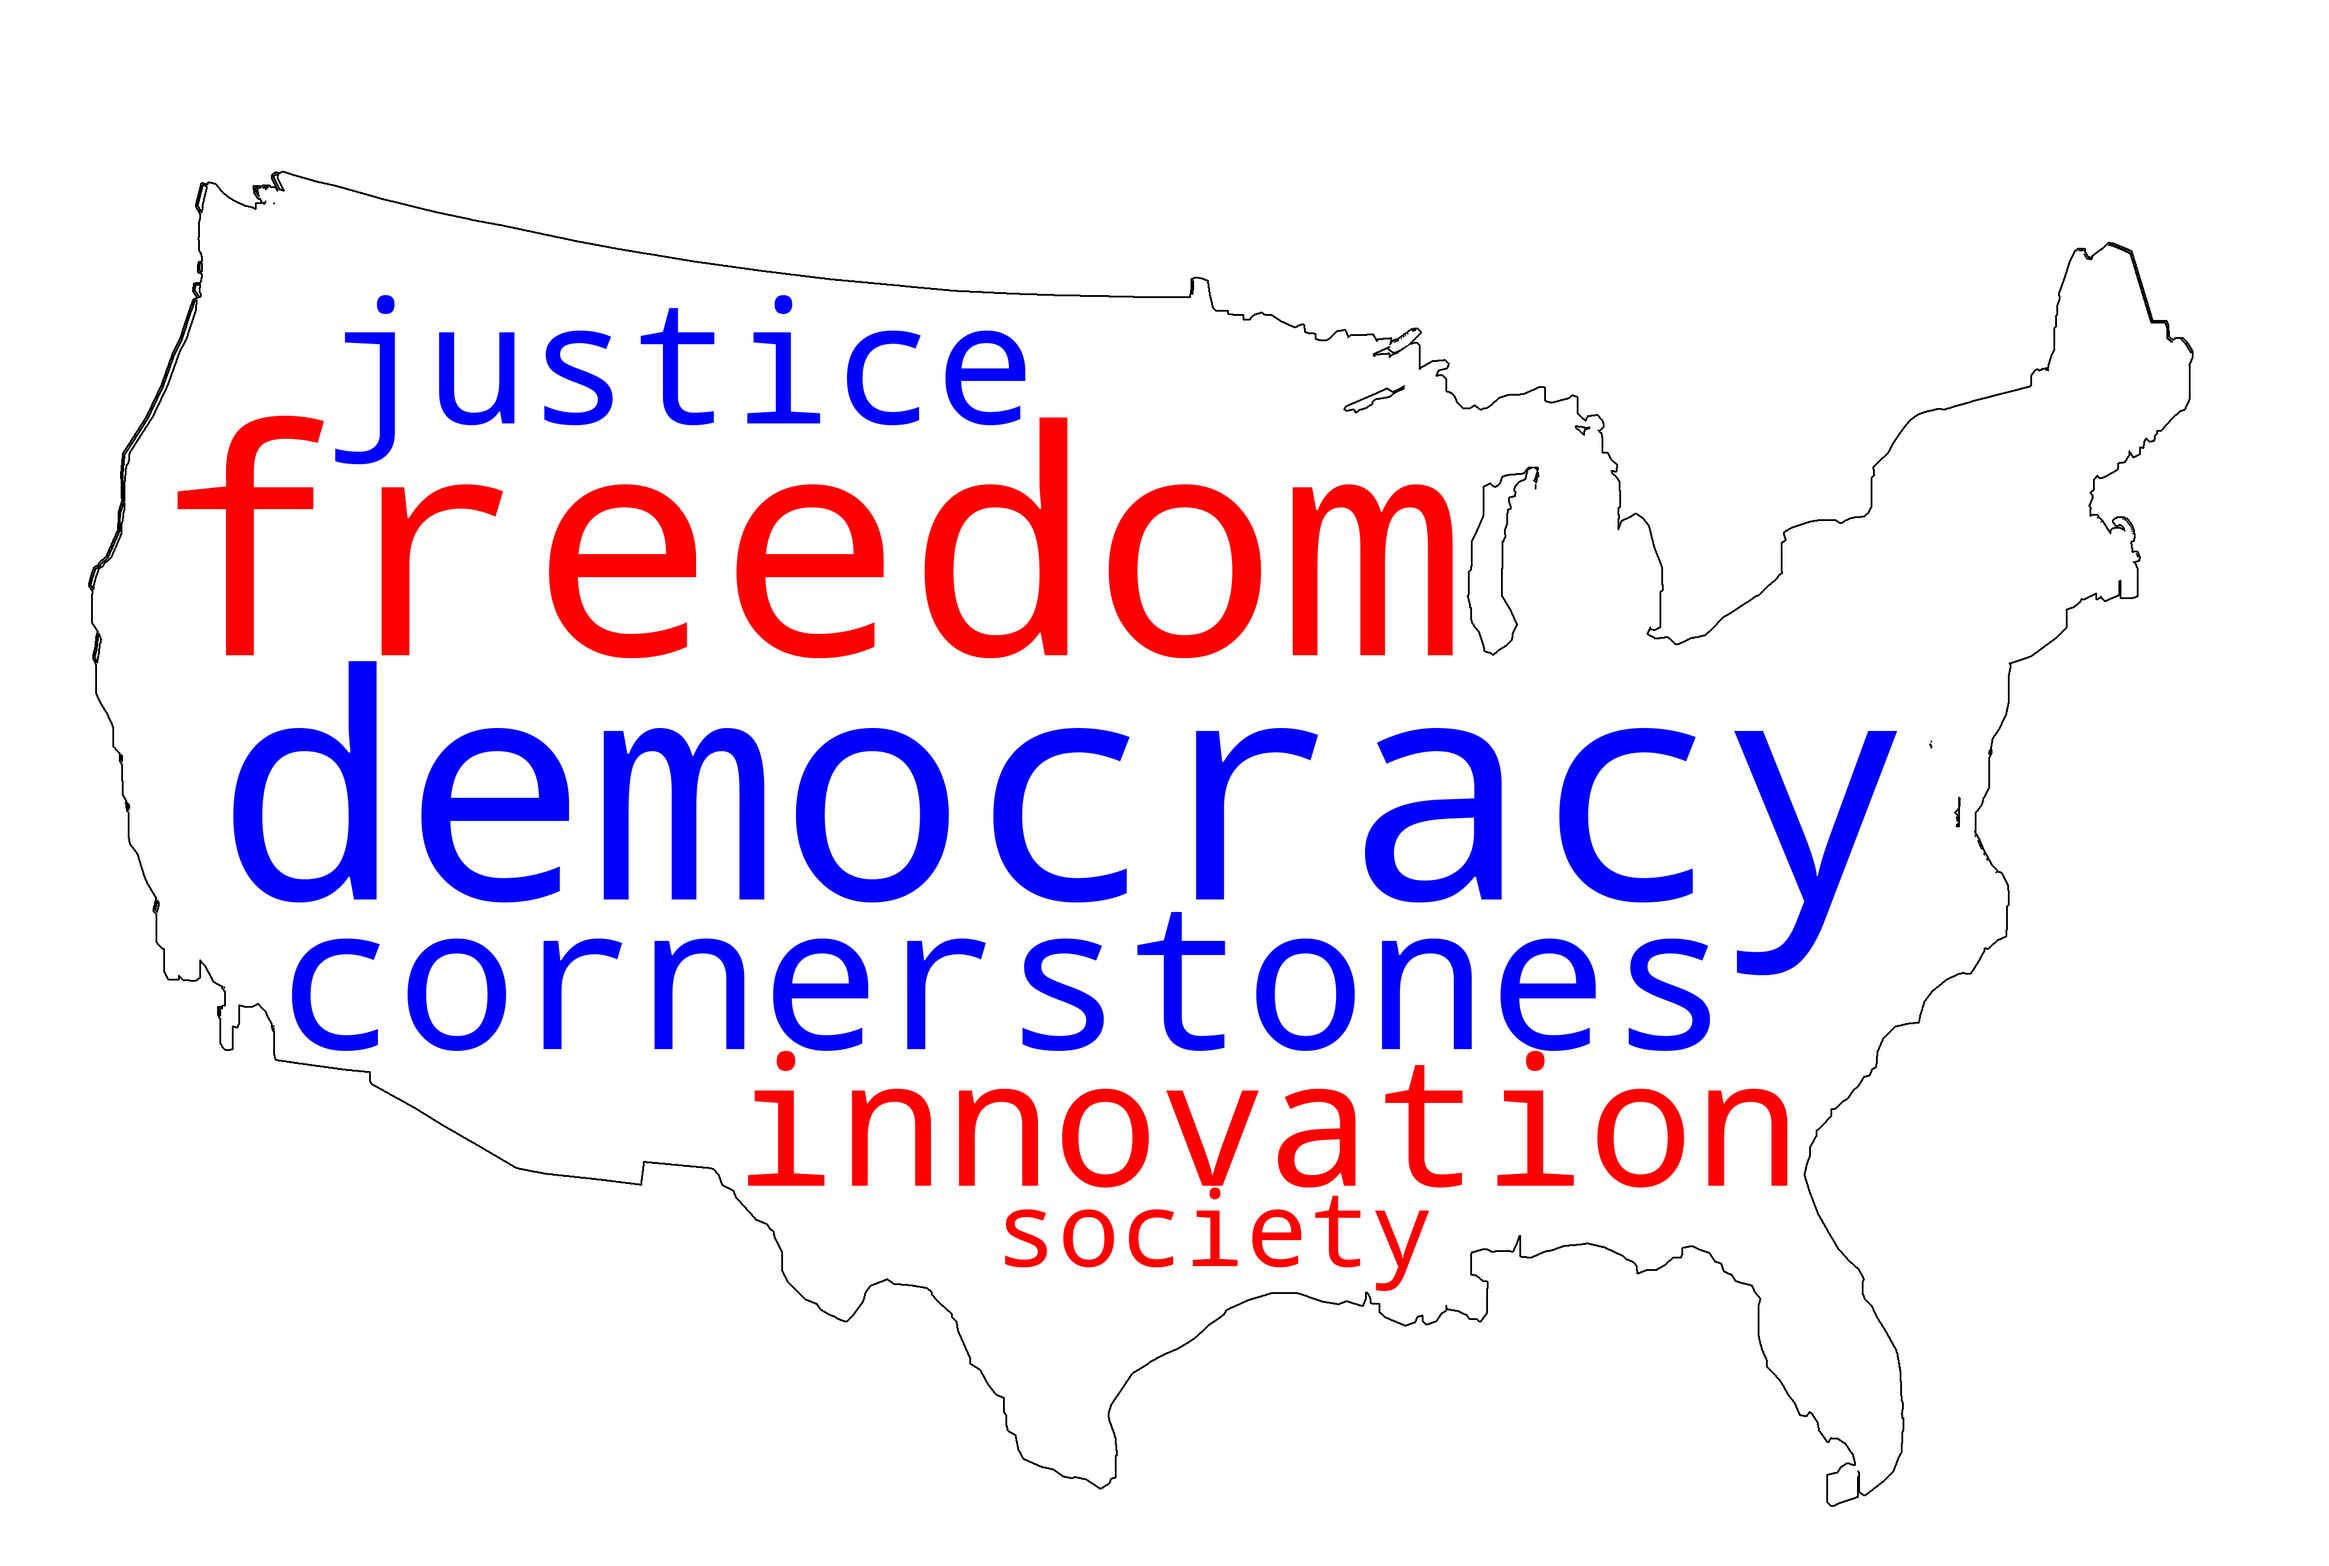
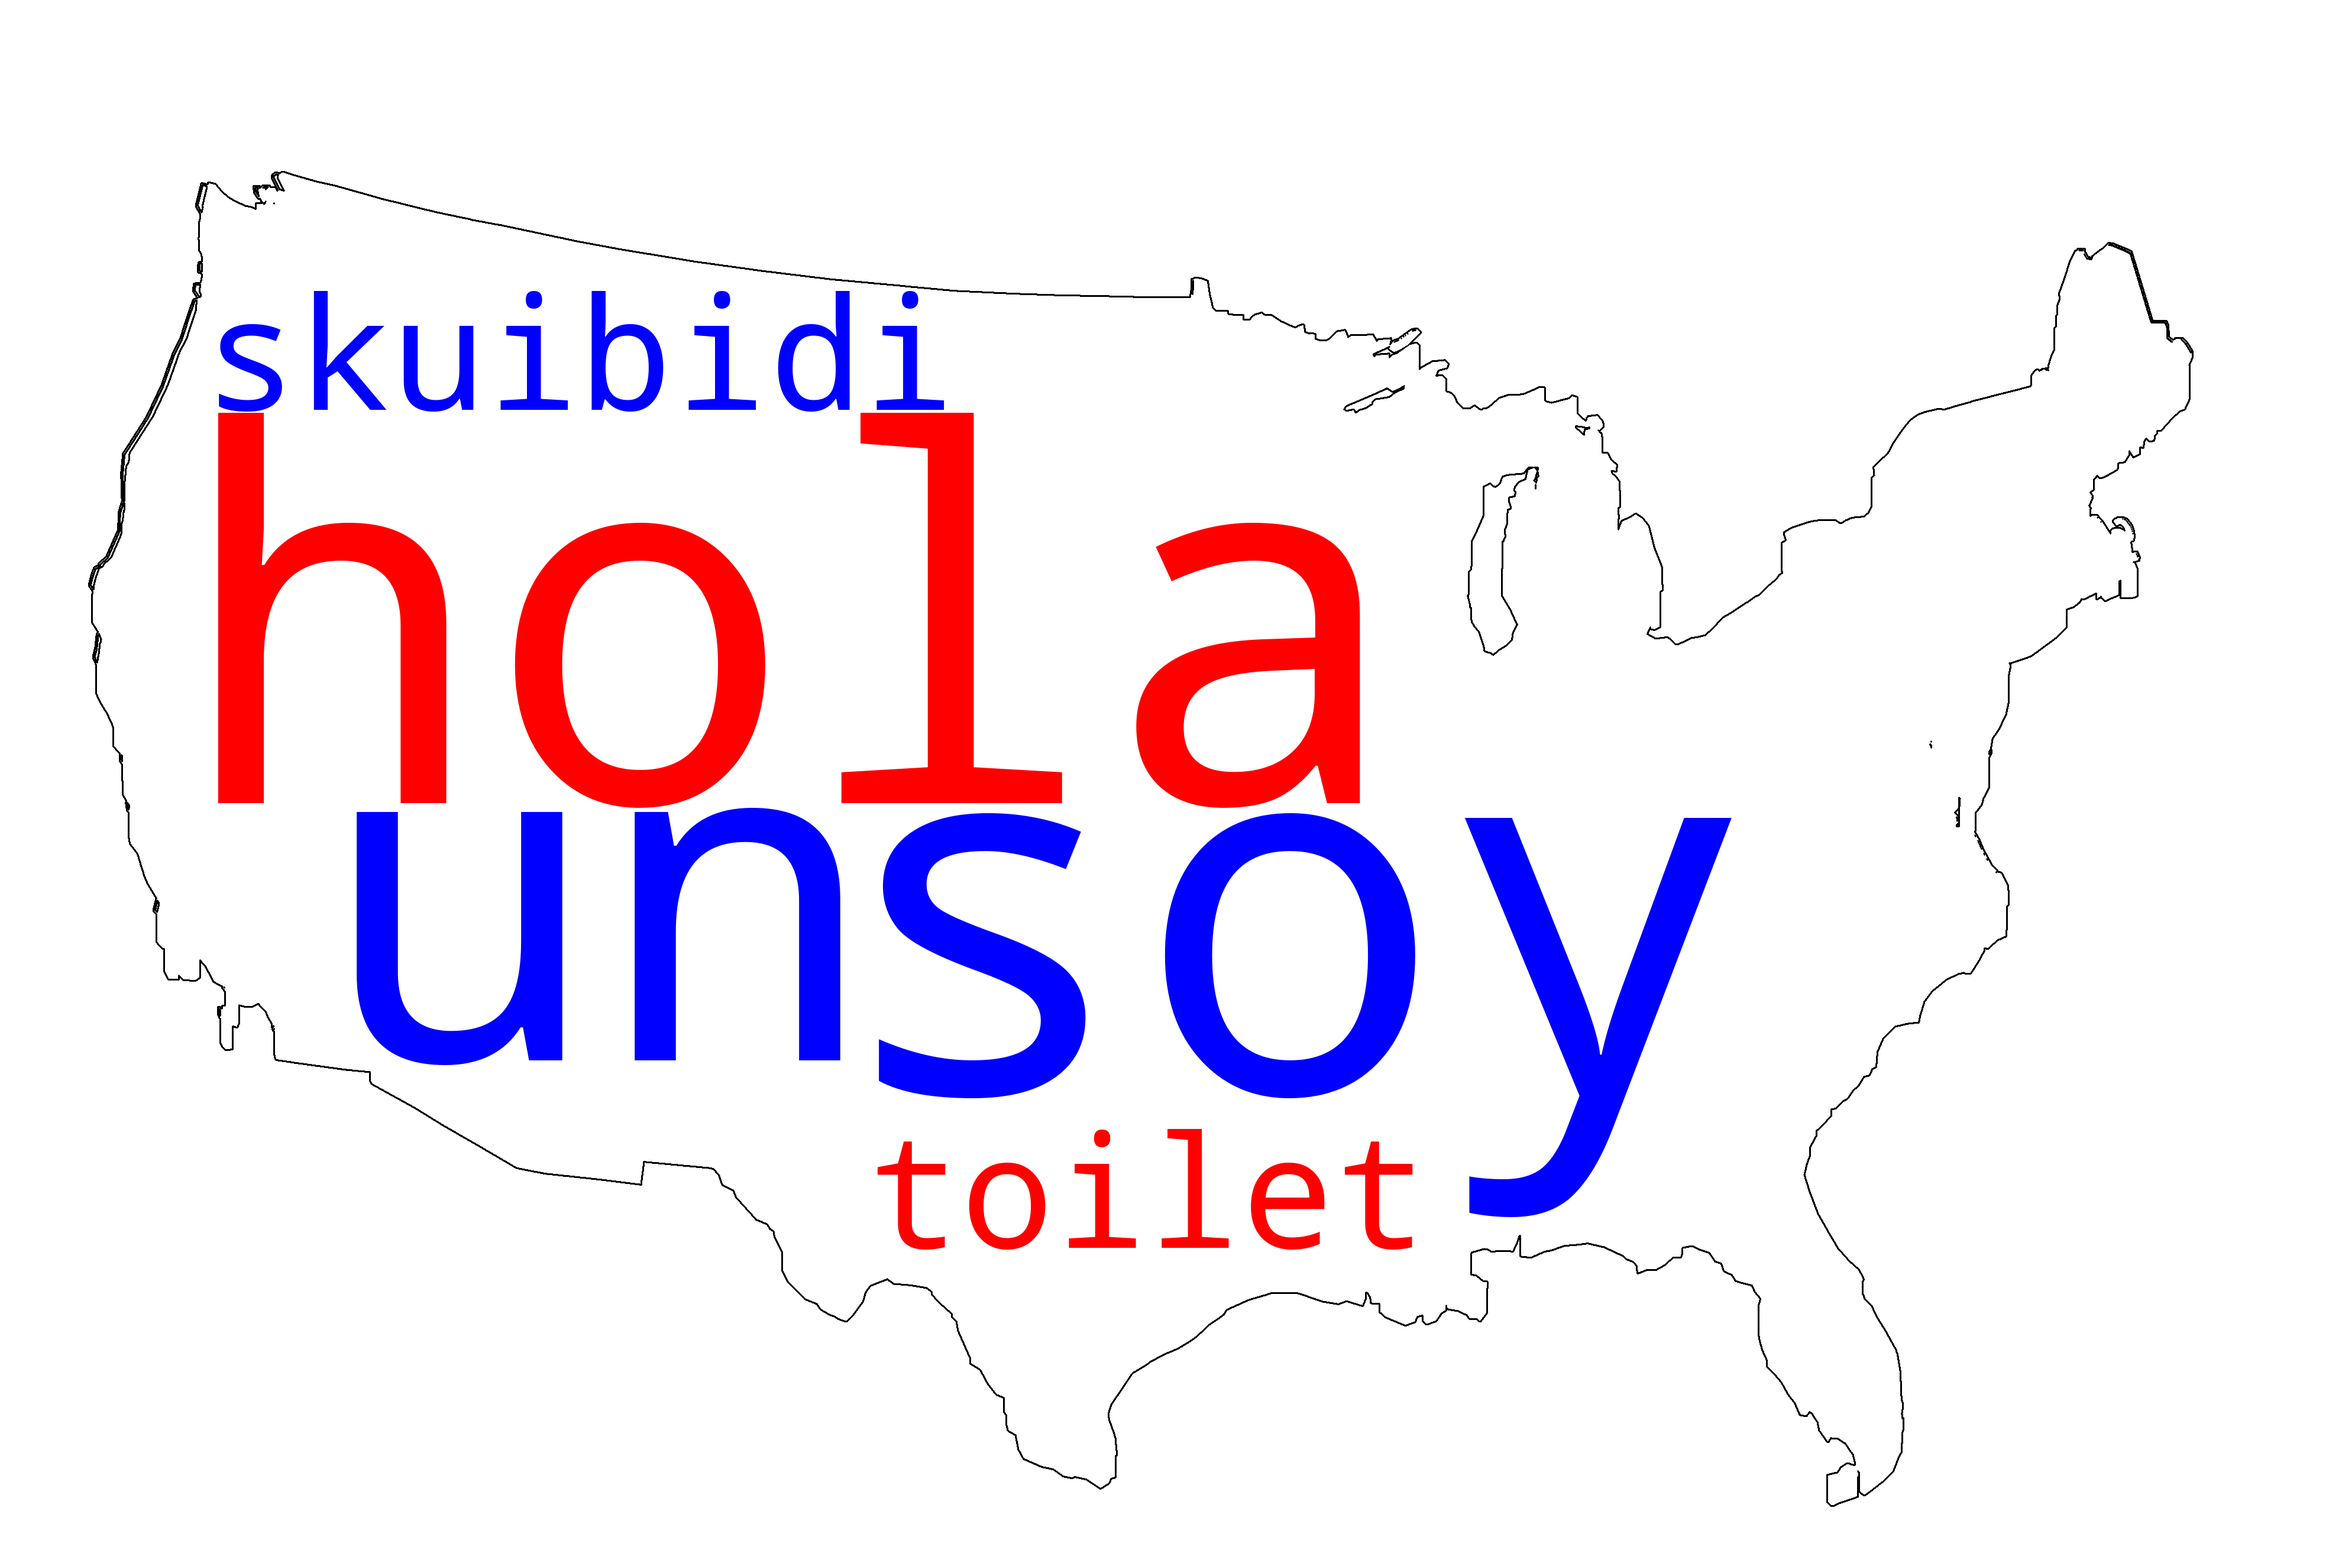
WordCloud Functional

Changed region(s): [[0.0625, 0.1858, 0.8121, 0.8051]]

diff --git a/src/components/Form.js b/src/components/Form.js
@@ -2,9 +2,9 @@ import React, { useState } from 'react';
 import PDFDropper from './PDFDropper'; // Assuming you have this component
 import ImproveSpeech from '../pages/ImproveSpeech';
 import ImproveSpeechContent from './ImproveSpeechContent';
+import '../styles/Form.css';
 
 const Form = ({ currentSection }) => {
-
   const markdownContent = `
 # Improve Speech Content
 
@@ -24,106 +24,56 @@ greet();
 [Check this link](https://example.com)
 `;
 
-
   const [inputType, setInputType] = useState('');
   const [pdfInput, setPdfInput] = useState('');
   const [videoInput, setVideoInput] = useState('');
   const [textInput, setTextInput] = useState('');
   const [showResult, setShowResult] = useState(false);
+  const [imagePath, setImagePath] = useState(null);
+  const [isLoading, setIsLoading] = useState(false);
 
-  const handleVideoInputChange = (e) => {
-    setVideoInput(e.target.value);
+  const handleVideoInputChange = (e) => setVideoInput(e.target.value);
+  const handleTextInputChange = (e) => setTextInput(e.target.value);
+
+  const handleSubmit = async () => {
+    setIsLoading(true);
+
+    try {
+      const response = await fetch('http://localhost:5000/generate_wordcloud', {
+        method: 'POST',
+        headers: { 'Content-Type': 'application/json' },
+        body: JSON.stringify({ text: textInput }),
+      });
+
+      const data = await response.json();
+      if (response.ok) {
+        setImagePath(data.image_path); // Save the image path
+        setShowResult(true); // Show the result
+      } else {
+        console.error(data.error);
+      }
+    } catch (err) {
+      console.error('Failed to generate word cloud:', err);
+    }
+
+    setIsLoading(false); // Stop loading state
   };
 
-  const handleTextInputChange = (e) => {
-    setTextInput(e.target.value);
-  };
-
-  const buttonStyle = {
-    backgroundColor: '#d3d3d3',
-    border: 'none',
-    padding: '15px 25px',
-    fontSize: '16px',
-    fontWeight: 'bold',
-    cursor: 'pointer',
-    transition: 'background-color 0.3s ease',
-    borderRadius: '5px',
-    margin: '0 10px',
-    width: '200px',
-  };
-
-  const containerStyle = {
-    display: 'flex',
-    flexDirection: 'column',
-    alignItems: 'center',
-    padding: '20px',
-  };
-
-  const buttonContainerStyle = {
-    display: 'flex',
-    justifyContent: 'center',
-    marginBottom: '20px',
-  };
-
-  const textAreaStyle = {
-    width: '580px',
-    maxWidth: '800px',
-    height: '230px',
-    padding: '15px',
-    fontSize: '16px',
-    borderRadius: '10px',
-    border: '1px solid #ccc',
-    resize: 'vertical',
-    marginTop: '10px',
-  };
-
-  const searchBarStyle = {
-    padding: '15px',
-    fontSize: '18px',
-    width: '730px',
-    maxWidth: '80%',
-    borderRadius: '10px',
-    border: '2px solid #aaa',
-    boxShadow: '0 2px 4px rgba(0, 0, 0, 0.1)',
-    marginTop: '10px',
-  };
-
-  const inputWrapperStyle = {
-    display: 'flex',
-    flexDirection: 'column',
-    alignItems: 'center',
-    marginTop: '20px',
-  };
-
+  
   return (
-    <div style={containerStyle}>
+    <div className="form-container">
       {!showResult && (
         <>
-          <div style={buttonContainerStyle}>
-            <button
-              style={buttonStyle}
-              onClick={() => setInputType('Video')}
-              onMouseEnter={(e) => (e.target.style.backgroundColor = '#bbb')}
-              onMouseLeave={(e) => (e.target.style.backgroundColor = '#d3d3d3')}
-            >
-              Video
-            </button>
-            <button
-              style={buttonStyle}
-              onClick={() => setInputType('Text')}
-              onMouseEnter={(e) => (e.target.style.backgroundColor = '#bbb')}
-              onMouseLeave={(e) => (e.target.style.backgroundColor = '#d3d3d3')}
-            >
-              Enter your Text
-            </button>
-            <button
-              style={buttonStyle}
-              onClick={() => setInputType('Upload a PDF')}
-              onMouseEnter={(e) => (e.target.style.backgroundColor = '#bbb')}
-              onMouseLeave={(e) => (e.target.style.backgroundColor = '#d3d3d3')}
-            >
-              Upload a PDF
-            </button>
+          <div className="button-container">
+            {['Video', 'Text', 'Upload a PDF'].map((type) => (
+              <button
+                key={type}
+                className="button"
+                onClick={() => setInputType(type)}
+              >
+                {type}
+              </button>
+            ))}
           </div>
 
           {inputType === 'Upload a PDF' && (
@@ -131,12 +81,10 @@ greet();
           )}
 
           {inputType === 'Text' && (
-            <div style={inputWrapperStyle}>
+            <div className="input-wrapper">
               <textarea
                 placeholder="Enter your text here..."
-                rows={10}
-                cols={120}
-                style={textAreaStyle}
+                className="text-area"
                 value={textInput}
                 onChange={handleTextInputChange}
               />
@@ -144,11 +92,11 @@ greet();
           )}
 
           {inputType === 'Video' && (
-            <div style={inputWrapperStyle}>
+            <div className="input-wrapper">
               <input
                 type="text"
                 placeholder="Search for a video..."
-                style={searchBarStyle}
+                className="search-bar"
                 value={videoInput}
                 onChange={handleVideoInputChange}
               />
@@ -156,24 +104,42 @@ greet();
           )}
 
           <button
-            style={{ ...buttonStyle, marginTop: '20px' }}
-            onClick={() => setShowResult(true)}
-            onMouseEnter={(e) => (e.target.style.backgroundColor = '#bbb')}
-            onMouseLeave={(e) => (e.target.style.backgroundColor = '#d3d3d3')}
+            className="button"
+            style={{ marginTop: '20px' }}
+            onClick={handleSubmit}
+            disabled={isLoading}
           >
-            Submit
+            {isLoading ? 'Generating...' : 'Submit'}
           </button>
         </>
       )}
 
       {showResult && (
         <div>
-          <ImproveSpeechContent markdownContent = {markdownContent} setShowResult = {setShowResult} textInput = {textInput} pdfInput = {pdfInput} videoInput = {videoInput} inputType = {inputType}/>
-        <div style={inputWrapperStyle}>
-          <h3>PDF Input: {pdfInput}</h3>
-          <h3>Video Input: {videoInput}</h3>
-          <h3>Text Input: {textInput}</h3>
-        </div>
+          <ImproveSpeechContent
+            setShowResult={setShowResult}
+            textInput={textInput}
+            pdfInput={pdfInput}
+            videoInput={videoInput}
+            inputType={inputType}
+          />
+
+          <div className="input-wrapper">
+            <h3>PDF Input: {pdfInput}</h3>
+            <h3>Video Input: {videoInput}</h3>
+            <h3>Text Input: {textInput}</h3>
+          </div>
+
+          {imagePath && (
+            <div className="wordcloud-container">
+              <h2>Your Word Cloud</h2>
+              <img
+                src={imagePath}
+                alt="Word Cloud"
+                style={{ maxWidth: '100%', marginTop: '20px' }}
+              />
+            </div>
+          )}
         </div>
       )}
     </div>

diff --git a/src/styles/Form.css b/src/styles/Form.css
@@ -1,0 +1,66 @@
+/* Form Container */
+.form-container {
+    display: flex;
+    flex-direction: column;
+    align-items: center;
+    padding: 20px;
+  }
+  
+  /* Button Container */
+  .button-container {
+    display: flex;
+    justify-content: center;
+    margin-bottom: 20px;
+  }
+  
+  /* Buttons */
+  .button {
+    background-color: #d3d3d3;
+    border: none;
+    padding: 15px 25px;
+    font-size: 16px;
+    font-weight: bold;
+    cursor: pointer;
+    transition: background-color 0.3s ease;
+    border-radius: 5px;
+    margin: 0 10px;
+    width: 200px;
+  }
+  
+  .button:hover {
+    background-color: #bbb;
+  }
+  
+  /* Text Area */
+  .text-area {
+    width: 580px;
+    max-width: 800px;
+    height: 230px;
+    padding: 15px;
+    font-size: 16px;
+    border-radius: 10px;
+    border: 1px solid #ccc;
+    resize: vertical;
+    margin-top: 10px;
+  }
+  
+  /* Search Bar */
+  .search-bar {
+    padding: 15px;
+    font-size: 18px;
+    width: 730px;
+    max-width: 80%;
+    border-radius: 10px;
+    border: 2px solid #aaa;
+    box-shadow: 0 2px 4px rgba(0, 0, 0, 0.1);
+    margin-top: 10px;
+  }
+  
+  /* Input Wrapper */
+  .input-wrapper {
+    display: flex;
+    flex-direction: column;
+    align-items: center;
+    margin-top: 20px;
+  }
+  
